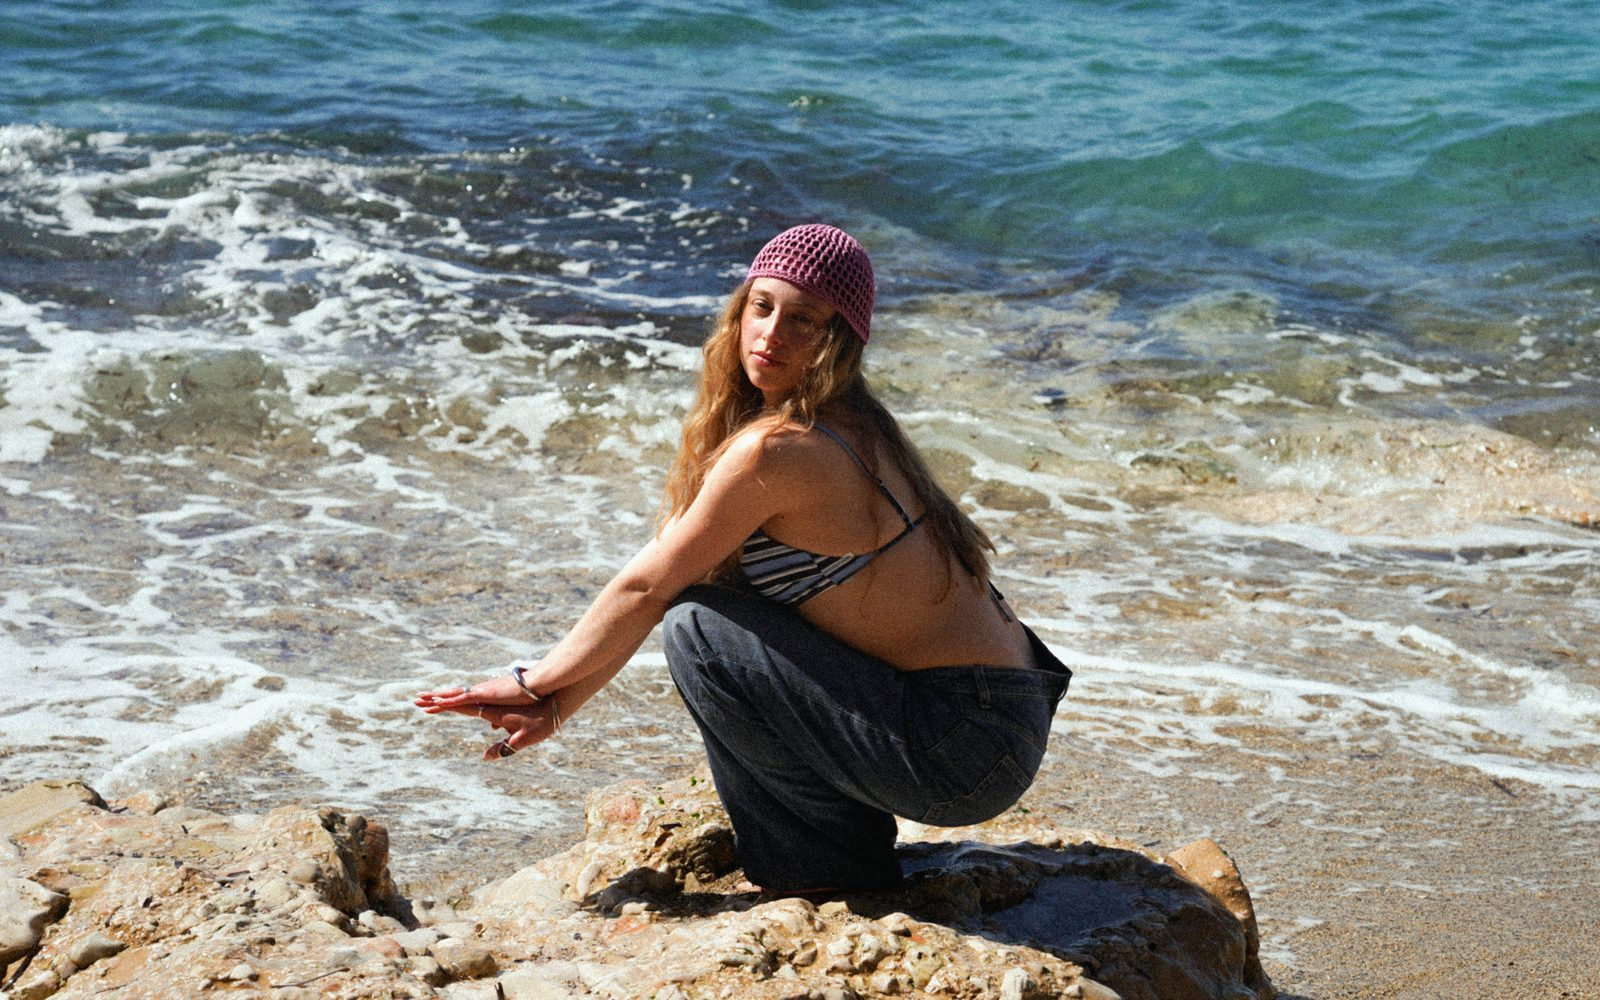
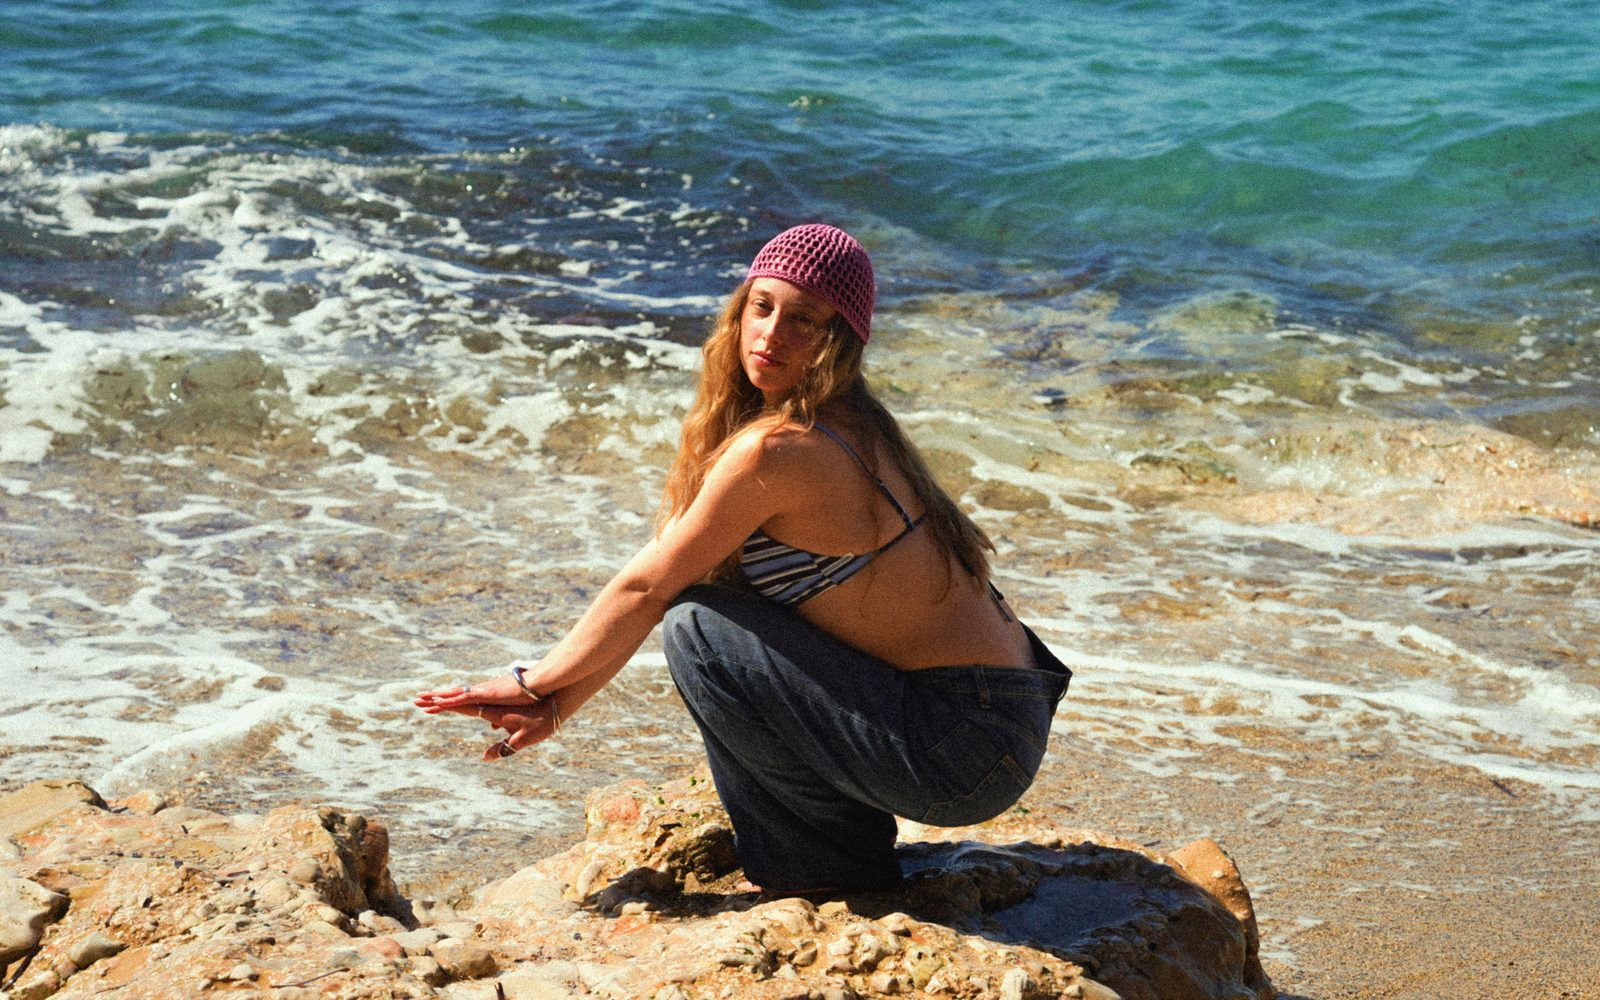
Textes projets, typo Titan One, vibrance Neen, visuels CR

diff --git a/index.html b/index.html
@@ -3,7 +3,7 @@
   <head>
     <meta charset="utf-8">
     <meta name="viewport" content="width=device-width, initial-scale=1">
-    <meta name="description" content="Portfolio de Chloé Bastianon — brand & identity specialist.">
+    <meta name="description" content="Portfolio de Chloé Bastianon — identity strategy & creative direction.">
     <title>Chloé Bastianon — Portfolio</title>
     <link rel="preconnect" href="https://fonts.googleapis.com">
     <link rel="preconnect" href="https://fonts.gstatic.com" crossorigin>
@@ -24,14 +24,14 @@
       /* Top bar façon ref : nav à gauche, nom centré */
       .topbar { display: grid; grid-template-columns: minmax(0, 1fr) auto minmax(0, 1fr); align-items: end; gap: 16px; padding-top: 34px; padding-bottom: 34px; padding-left: var(--gutter); padding-right: var(--gutter); background: var(--paper); overflow: hidden; }
       .topbar > * { min-width: 0; }
-      .topnav { display: flex; flex-wrap: wrap; row-gap: 8px; gap: 26px; margin: 0; padding: 0 0 23px; font-family: Oswald, Arial Narrow, sans-serif; font-size: 18px; font-weight: 600; line-height: 1; letter-spacing: .02em; text-transform: uppercase; max-width: 100%; }
+      .topnav { display: flex; flex-wrap: wrap; row-gap: 8px; gap: 26px; margin: 0; padding: 0 0 25px; font-family: Oswald, Arial Narrow, sans-serif; font-size: 18px; font-weight: 600; line-height: 1; letter-spacing: .02em; text-transform: uppercase; max-width: 100%; }
       .topnav a { transition: opacity .18s ease, color .18s ease; }
       .topnav a:hover { opacity: .45; }
       .topnav a.is-active { color: #9d9d9d; }
       .logo { display: block; text-align: left; line-height: 1; }
       .logo:hover { opacity: .92; }
       .logo-name { display: block; font-family: "Titan One", "Arial Black", Arial, sans-serif; font-size: clamp(44px, 6.5vw, 84px); line-height: .84; letter-spacing: .005em; text-transform: uppercase; }
-      .logo-role { display: block; margin-top: 6px; text-align: right; font-size: 14px; font-weight: 700; letter-spacing: -.02em; }
+      .logo-role { display: block; margin-top: 6px; text-align: right; font-size: 16px; font-weight: 700; letter-spacing: -.02em; }
       .topbar-right { display: flex; justify-content: flex-end; min-height: 1px; }
       .topbar-right .topnav { margin-right: 5px; }
       .category { position: absolute; width: 1px; height: 1px; margin: -1px; padding: 0; overflow: hidden; clip: rect(0 0 0 0); white-space: nowrap; border: 0; }
@@ -51,14 +51,14 @@
       .photo { position: absolute; inset: 0; width: 100%; height: 100%; object-fit: cover; display: block; filter: saturate(1.03) contrast(1.02) sepia(.06); }
       .tile-label { position: absolute; left: 18px; bottom: 16px; font-family: Oswald, sans-serif; font-size: 18px; font-weight: 600; letter-spacing: .04em; text-transform: uppercase; color: #fff; text-shadow: 0 1px 10px rgba(0,0,0,.55); }
       .page-head { max-width: 760px; margin: 0 0 26px; padding: 0 var(--gutter); text-align: left; }
-      .page-intro { margin: 0; font-size: 13px; line-height: 1.35; letter-spacing: -.02em; color: #444; }
+      .page-intro { position: relative; max-width: none; margin: 0; font-size: clamp(20px, 2.6vw, 30px); font-weight: 700; line-height: 1.25; letter-spacing: -.02em; }
       .project { display: flex; flex-direction: column; margin-bottom: 30px; }
       .project-gallery { display: grid; grid-template-columns: repeat(2, minmax(0, 1fr)); gap: 8px; padding-left: var(--gutter); padding-right: var(--gutter); }
       .project-visual { aspect-ratio: 16 / 10; }
       .project-gallery .project-visual:last-child:nth-child(odd) { grid-column: 1 / -1; aspect-ratio: 21 / 9; }
       .project-meta { order: -1; padding: 0 var(--gutter) 10px; }
-      .project-name { margin: 0; font-family: Oswald, Arial Narrow, sans-serif; font-size: 18px; font-weight: 600; letter-spacing: .02em; text-transform: uppercase; }
-      .project-description { margin: 4px 0 0; color: var(--muted); font-size: 12px; }
+      .project-name { margin: 0; font-family: "Titan One", "Arial Black", Arial, sans-serif; font-size: 24px; font-weight: 400; letter-spacing: .005em; text-transform: uppercase; }
+      .project-description { margin: 6px 0 0; font-family: Arial, Helvetica, sans-serif; font-size: 16px; font-weight: 400; letter-spacing: -.02em; color: var(--muted); }
       .illustrated { background: #d3d3d3; }
       .variant-2 { filter: hue-rotate(18deg) brightness(1.06) saturate(1.05); }
       .variant-3 { filter: brightness(.92) contrast(1.08) saturate(.92); }
@@ -101,23 +101,21 @@
     <main class="site" aria-label="Portfolio de Chloé Bastianon">
       <header class="topbar">
         <nav class="topnav" aria-label="Navigation principale"><a href="#home">Accueil</a><a href="#contact">Contact</a></nav>
-        <a class="logo" href="#home" aria-label="Chloé Bastianon — accueil"><span class="logo-name">Chloé<br>Bastianon</span><span class="logo-role">brand &amp; identity specialist</span></a>
+        <a class="logo" href="#home" aria-label="Chloé Bastianon — accueil"><span class="logo-name">Chloé<br>Bastianon</span><span class="logo-role">identity strategy &amp; creative direction</span></a>
         <div class="topbar-right"><nav class="topnav" aria-label="Catégories"><a href="#artists">Artists</a><a href="#brands">Brands</a></nav></div>
       </header>
 
       <section class="view" id="artists" aria-labelledby="artists-title">
         <h1 class="category" id="artists-title">Artists</h1>
-        <div class="page-head"><p class="page-intro">I identify what makes an artist distinctive, clarify their intention, and translate it into a coherent creative identity.</p></div>
-        <article class="project"><div class="project-gallery"><div class="project-visual"><img class="photo" src="assets/neen-1.jpg" alt="Neen — visuel 1" loading="lazy"></div><div class="project-visual"><img class="photo" src="assets/neen-2.jpg" alt="Neen — visuel 2" loading="lazy"></div></div><div class="project-meta"><h2 class="project-name">Neen</h2><p class="project-description">An identity revealed from within</p></div></article>
-        <article class="project"><div class="project-gallery"><div class="project-visual"><img class="photo" src="assets/eliott-1.jpg" alt="Eliott Ray — visuel 1" loading="lazy"></div><div class="project-visual"><img class="photo" src="assets/eliott-2.jpg" alt="Eliott Ray — visuel 2" loading="lazy"></div></div><div class="project-meta"><h2 class="project-name">Eliott Ray</h2><p class="project-description">From the instinct to a conscious identity</p></div></article>
-        <article class="project"><div class="project-gallery"><div class="project-visual pending" data-label="Project image pending" role="img" aria-label="Suze — visuel 1"></div><div class="project-visual pending" data-label="Project image pending" role="img" aria-label="Suze — visuel 2"></div></div><div class="project-meta"><h2 class="project-name">Suze</h2><p class="project-description">Accompanying an identity in formation</p></div></article>
+        <article class="project"><div class="project-gallery"><div class="project-visual"><img class="photo" src="assets/neen-1.jpg" alt="Neen — visuel 1" loading="lazy"></div><div class="project-visual"><img class="photo" src="assets/neen-2.jpg" alt="Neen — visuel 2" loading="lazy"></div></div><div class="project-meta"><h2 class="project-name">Neen</h2><p class="project-description">Indie pop weaving human complexity with the organic world.</p></div></article>
+        <article class="project"><div class="project-gallery"><div class="project-visual"><img class="photo" src="assets/eliott-1.jpg" alt="Eliott Ray — visuel 1" loading="lazy"></div><div class="project-visual"><img class="photo" src="assets/eliott-2.jpg" alt="Eliott Ray — visuel 2" loading="lazy"></div></div><div class="project-meta"><h2 class="project-name">Eliott Ray</h2><p class="project-description">Intimate, electric and unapologetically sensitive alternative pop.</p></div></article>
+        <article class="project"><div class="project-gallery"><div class="project-visual pending" data-label="Project image pending" role="img" aria-label="Suze — visuel 1"></div><div class="project-visual pending" data-label="Project image pending" role="img" aria-label="Suze — visuel 2"></div></div><div class="project-meta"><h2 class="project-name">Suze</h2><p class="project-description">Blondie weirdness with a cosmovintage soul, wrapped in ultra-pop.</p></div></article>
       </section>
 
       <section class="view" id="brands" aria-labelledby="brands-title">
         <h1 class="category" id="brands-title">Brands</h1>
-        <div class="page-head"><p class="page-intro">I clarify a brand's intention, audience and point of view, then translate them into a coherent visual and editorial identity.</p></div>
-        <article class="project"><div class="project-gallery"><div class="project-visual"><img class="photo" src="assets/baala-1.jpg" alt="Baala — visuel 1" loading="lazy"></div><div class="project-visual"><img class="photo" src="assets/baala-2.jpg" alt="Baala — visuel 2" loading="lazy"></div></div><div class="project-meta"><h2 class="project-name">Baala</h2><p class="project-description">A cultural territory made tangible</p></div></article>
-        <article class="project"><div class="project-gallery"><div class="project-visual"><img class="photo" src="assets/cr-1.jpg" alt="Le cœur et la raison — visuel 1" loading="lazy"></div><div class="project-visual"><img class="photo" src="assets/cr-2.jpg" alt="Le cœur et la raison — visuel 2" loading="lazy"></div></div><div class="project-meta"><h2 class="project-name">Le cœur &amp; la raison</h2><p class="project-description">A philosophy, a concept, a name, a visual, a podcast</p></div></article>
+        <article class="project"><div class="project-gallery"><div class="project-visual"><img class="photo" src="assets/baala-1.jpg" alt="Baala — visuel 1" loading="lazy"></div><div class="project-visual"><img class="photo" src="assets/baala-2.jpg" alt="Baala — visuel 2" loading="lazy"></div></div><div class="project-meta"><h2 class="project-name">Baala</h2><p class="project-description">Contemporary fashion rooted in Tunisian heritage and the urban life of Paris and London.</p></div></article>
+        <article class="project"><div class="project-gallery"><div class="project-visual"><img class="photo" src="assets/cr-1.jpg" alt="Le cœur et la raison — visuel 1" loading="lazy"></div><div class="project-visual"><img class="photo" src="assets/cr-2.jpg" alt="Le cœur et la raison — visuel 2" loading="lazy"></div></div><div class="project-meta"><h2 class="project-name">Le cœur &amp; la raison</h2><p class="project-description">A podcast exploring the tension between heart and mind.</p></div></article>
         <article class="project"><div class="project-gallery"><div class="project-visual pending" data-label="Project image pending" role="img" aria-label="Cream — visuel 1"></div><div class="project-visual pending" data-label="Project image pending" role="img" aria-label="Cream — visuel 2"></div></div><div class="project-meta"><h2 class="project-name">Cream</h2><p class="project-description">An editorial eye on London</p></div></article>
       </section>
 
